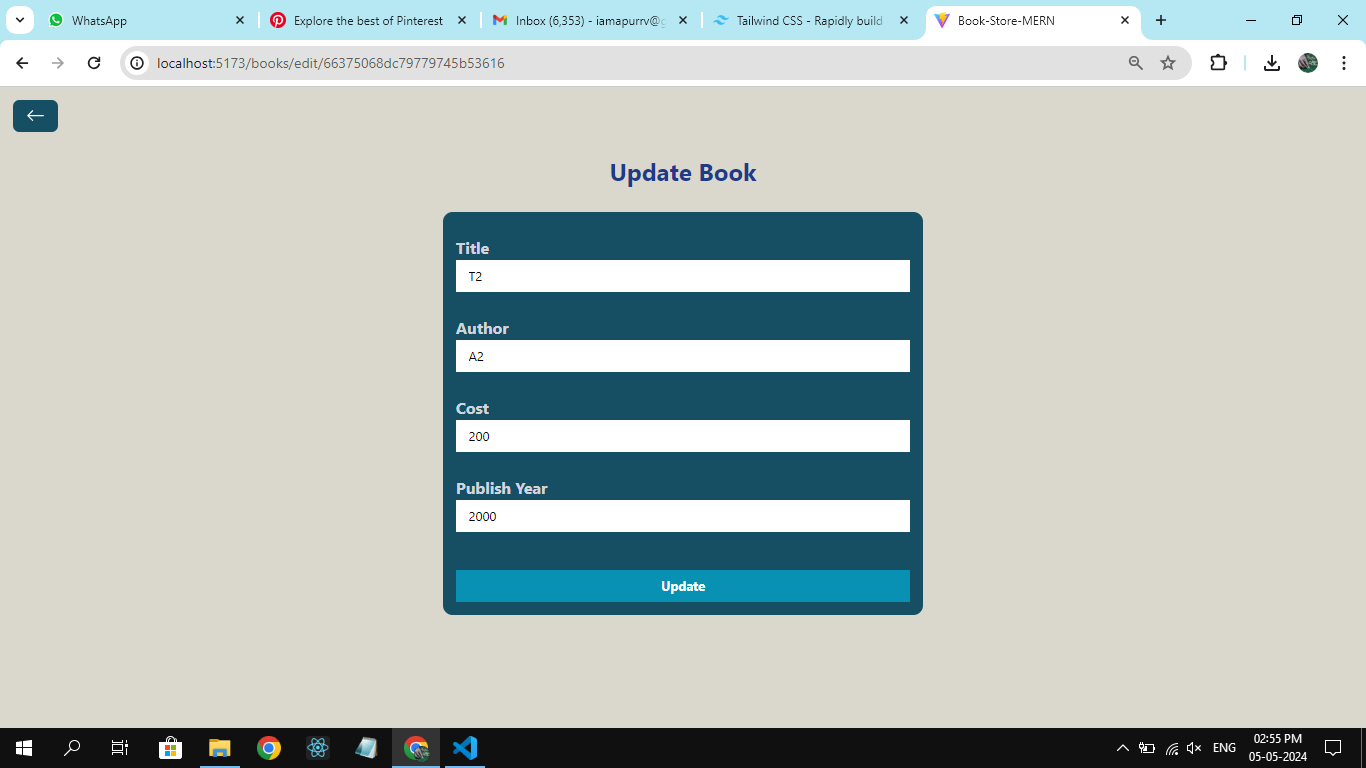
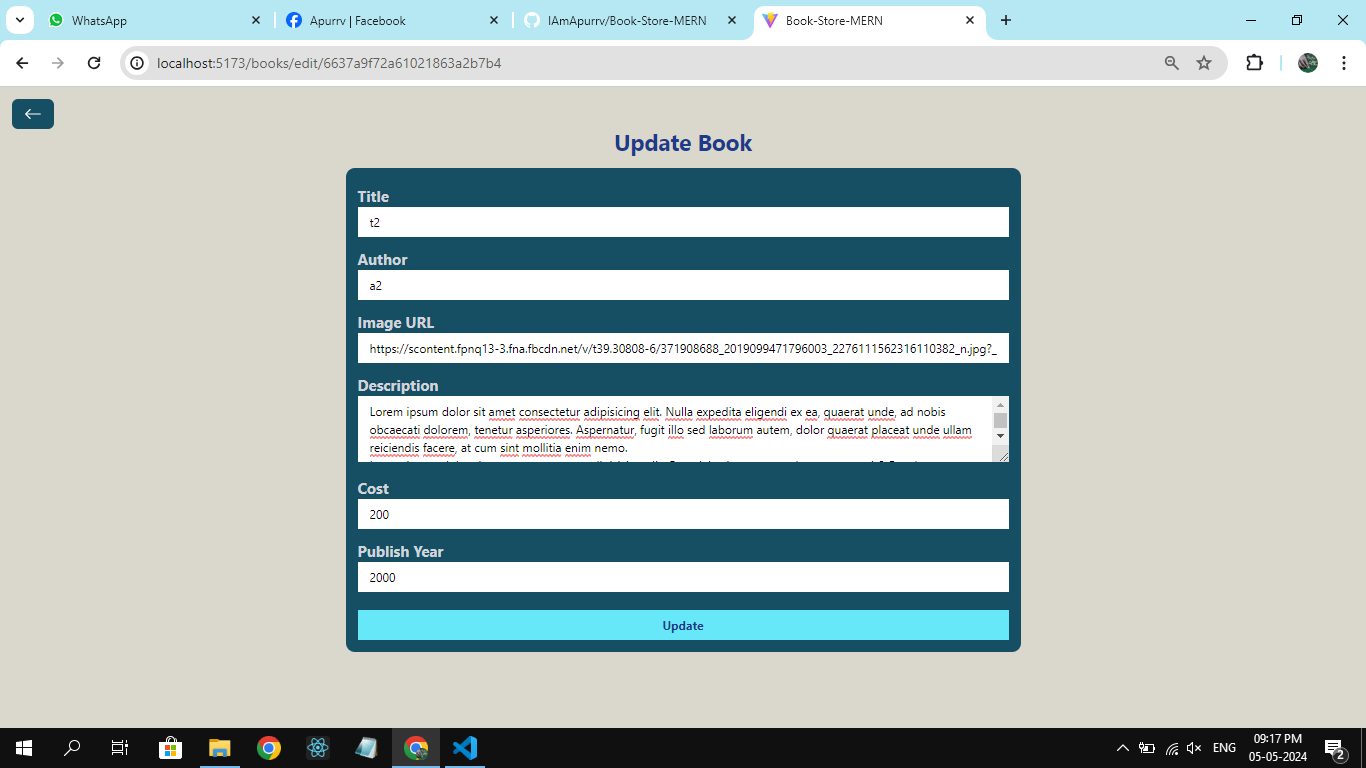
updated

diff --git a/frontend/src/pages/ShowBook.jsx b/frontend/src/pages/ShowBook.jsx
@@ -24,41 +24,76 @@ const ShowBook = () => {
       });
   }, []);
 
+  const formatDate = (dateString) => {
+    const options = {
+      weekday: 'long',
+      year: 'numeric',
+      month: 'long',
+      day: 'numeric',
+      hour: 'numeric',
+      minute: 'numeric',
+      second: 'numeric',
+      hour12: true
+    };
+
+    const dateObject = new Date(dateString);
+    const time = dateObject.toLocaleTimeString(undefined, { hour: 'numeric', minute: 'numeric' });
+    const dayAndDate = dateObject.toLocaleDateString(undefined, { weekday: 'long', month: 'long', day: 'numeric' });
+
+    return `${time}, ${dayAndDate}`;
+  };
+
   return (
     <div className='p-4'>
       <BackButton />
-      <h1 className='text-3xl my-8 font-bold text-blue-900 text-center'>Show Book</h1>
       {loading ? (
         <Spinner />
       ) : (
-        <div className='bg-cyan-900 text-white flex flex-col justify-center rounded-xl w-fit p-4 mx-auto'>
-          <div className='my-4'>
-            <span className='text-xl mr-4 text-gray-300'>Id :</span>
-            <b>{book._id}</b>
+        <div className='my-4 flex'>
+          <div className='w-1/3 h-full flex justify-center rounded-xl bg-cover' style={{ backgroundImage: "url()" }}>
+            <img className='w-3/4 h-2/3 rounded-xl' src={book.imageURL} alt={book.title} />
           </div>
-          <div className='my-4'>
-            <span className='text-xl mr-4 text-gray-300'>Title :</span>
-            <b>{book.title}</b>
-          </div>
-          <div className='my-4'>
-            <span className='text-xl mr-4 text-gray-300'>Author :</span>
-            <b>{book.author}</b>
-          </div>
-          <div className='my-4'>
-            <span className='text-xl mr-4 text-gray-300'>Cost :</span>
-            <b>{book.cost} <span className="inline-block align-middle"><FaRupeeSign /></span></b>
-          </div>
-          <div className='my-4'>
-            <span className='text-xl mr-4 text-gray-300'>Publish Year :</span>
-            <b>{book.publishYear}</b>
-          </div>
-          <div className='my-4'>
-            <span className='text-xl mr-4 text-gray-300'>Create Time :</span>
-            <b>{new Date(book.createdAt).toString()}</b>
-          </div>
-          <div className='my-4'>
-            <span className='text-xl mr-4 text-gray-300'>Last Update Time :</span>
-            <b>{new Date(book.updatedAt).toString()}</b>
+
+          <div className='w-2/3 h-full mx-4 pt-6 p-8 bg-cyan-900 text-white flex flex-col rounded-xl'>
+            <div>
+              <h1 className='text-3xl mt-2 mb-2 font-bold text-center'>{book.title}</h1>
+              <div className='pb-4'>
+                <span className='text-xl mr-4 text-gray-300'>Author :</span>
+                <b>{book.author}</b>
+              </div>
+            </div>
+
+            <div className=''>
+              <b><i>{book.description}</i></b>
+            </div>
+
+            <div className='my-4'>
+              <table>
+                <tr>
+                  <td className='text-xl text-gray-300'>Cost</td>
+                  <td>: &nbsp;&nbsp;&nbsp;<b>{book.cost} ₹</b></td>
+                </tr>
+                <tr>
+                  <td className='text-xl text-gray-300'>Publish Year &nbsp;</td>
+                  <td>: &nbsp;&nbsp;&nbsp;<b>{book.publishYear}</b></td>
+                </tr>
+              </table>
+            </div>
+
+            <div className='mt-8'>
+              <table>
+                <tr>
+                  <td className='text-gray-300'>Book added at &nbsp;</td>
+                  <td>: &nbsp;&nbsp;<b>{formatDate(book.createdAt)}</b></td>
+                </tr>
+                <tr>
+                  <td className='text-gray-300'>Last update at &nbsp;</td>
+                  <td>: &nbsp;&nbsp;<b>{formatDate(book.updatedAt)}</b></td>
+                </tr>
+              </table>
+            </div>
+
+
           </div>
         </div>
       )}

diff --git a/frontend/src/pages/EditBook.jsx b/frontend/src/pages/EditBook.jsx
@@ -8,6 +8,8 @@ import { useSnackbar } from 'notistack';
 const EditBook = () => {
   const [title, setTitle] = useState('');
   const [author, setAuthor] = useState('');
+  const [imageURL, setImageURL] = useState('');
+  const [description, setDescription] = useState('');
   const [cost, setCost] = useState('');
   const [publishYear, setPublishYear] = useState('');
   const [loading, setLoading] = useState(false);
@@ -21,6 +23,8 @@ const EditBook = () => {
       .then((response) => {
         setTitle(response.data.title);
         setAuthor(response.data.author);
+        setImageURL(response.data.imageURL);
+        setDescription(response.data.description);
         setCost(response.data.cost);
         setPublishYear(response.data.publishYear);
         setLoading(false);
@@ -35,6 +39,8 @@ const EditBook = () => {
     const data = {
       title,
       author,
+      imageURL,
+      description,
       cost,
       publishYear
     };
@@ -57,32 +63,43 @@ const EditBook = () => {
   return (
     <div className='p-4'>
       <BackButton />
-      <h1 className='text-3xl my-8 font-bold text-blue-900 text-center'>Update Book</h1>
+      <h1 className='text-3xl mb-4 font-bold text-blue-900 text-center'>Update Book</h1>
       {loading ? <Spinner /> : ''}
 
-      <div className='bg-cyan-900 flex flex-col rounded-xl w-[600px] p-4 mx-auto'>
+      <div className='bg-cyan-900 flex flex-col rounded-xl w-[900px] p-4 mx-auto'>
 
-        <div className='my-4'>
+        <div className='my-2'>
           <label className='text-xl mr-4 text-gray-300 font-bold'>Title</label>
           <input type='text' value={title} onChange={(e) => setTitle(e.target.value)} className='px-4 py-2 w-full' />
         </div>
 
-        <div className='my-4'>
+        <div className='my-2'>
           <label className='text-xl mr-4 text-gray-300 font-bold'>Author</label>
           <input type='text' value={author} onChange={(e) => setAuthor(e.target.value)} className='px-4 py-2 w-full' />
         </div>
 
-        <div className='my-4'>
+        <div className='my-2'>
+          <label className='text-xl mr-4 text-gray-300 font-bold'>Image URL</label>
+          <input type='text' value={imageURL} onChange={(e) => setImageURL(e.target.value)} className='px-4 py-2 w-full' />
+        </div>
+
+        <div className='my-2'>
+          <label className='text-xl mr-4 text-gray-300 font-bold'>Description</label>
+          {/* <input type='text' value={description} onChange={(e) => setDescription(e.target.value)} className='px-4 py-2 w-full' /> */}
+          <textarea value={description} rows={3} onChange={(e) => setDescription(e.target.value)} className='px-4 py-2 w-full' />
+        </div>
+
+        <div className='my-2'>
           <label className='text-xl mr-4 text-gray-300 font-bold'>Cost</label>
           <input type='number' value={cost} onChange={(e) => setCost(e.target.value)} className='px-4 py-2 w-full' />
         </div>
 
-        <div className='my-4'>
+        <div className='my-2'>
           <label className='text-xl mr-4 text-gray-300 font-bold'>Publish Year</label>
           <input type='number' value={publishYear} onChange={(e) => setPublishYear(e.target.value)} className='px-4 py-2 w-full' />
         </div>
 
-        <button className='p-2 bg-cyan-300 mt-8 font-bold text-blue-900 hover:bg-cyan-600 hover:text-white' onClick={handleEditBook}>Update</button>
+        <button className='p-2 bg-cyan-300 mt-4 font-bold text-blue-900 hover:bg-cyan-600 hover:text-white' onClick={handleEditBook}>Update</button>
 
       </div>
 

diff --git a/frontend/src/pages/AddBook.jsx b/frontend/src/pages/AddBook.jsx
@@ -8,6 +8,8 @@ import { useSnackbar } from 'notistack';
 const AddBook = () => {
   const [title, setTitle] = useState('');
   const [author, setAuthor] = useState('');
+  const [imageURL, setImageURL] = useState('');
+  const [description, setDescription] = useState('');
   const [cost, setCost] = useState('');
   const [publishYear, setPublishYear] = useState('');
   const [loading, setLoading] = useState(false);
@@ -18,6 +20,8 @@ const AddBook = () => {
     const data = {
       title,
       author,
+      imageURL,
+      description,
       cost,
       publishYear
     };
@@ -40,32 +44,44 @@ const AddBook = () => {
   return (
     <div className='p-4'>
       <BackButton />
-      <h1 className='text-3xl my-8 font-bold text-blue-900 text-center'>Add Book</h1>
+      <h1 className='text-3xl mb-4 font-bold text-blue-900 text-center'>Add Book</h1>
       {loading ? <Spinner /> : ''}
 
-      <div className='bg-cyan-900 flex flex-col rounded-xl w-[600px] p-4 mx-auto'>
+      <div className='bg-cyan-900 flex flex-col rounded-xl w-[900px] p-4 mx-auto'>
 
-        <div className='my-4'>
+        <div className='my-2'>
           <label className='text-xl mr-4 text-gray-300 font-bold'>Title</label>
           <input type='text' value={title} onChange={(e) => setTitle(e.target.value)} className='px-4 py-2 w-full' />
         </div>
 
-        <div className='my-4'>
+        <div className='my-2'>
           <label className='text-xl mr-4 text-gray-300 font-bold'>Author</label>
           <input type='text' value={author} onChange={(e) => setAuthor(e.target.value)} className='px-4 py-2 w-full' />
         </div>
 
-        <div className='my-4'>
-          <label className='text-xl mr-4 text-gray-300 font-bold'>Cost</label>
-          <input type='number' value={cost} onChange={(e) => setCost(e.target.value)} className='px-4 py-2 w-full' />
+        <div className='my-2'>
+          <label className='text-xl mr-4 text-gray-300 font-bold'>Image URL</label>
+          <input type='text' value={imageURL} onChange={(e) => setImageURL(e.target.value)} className='px-4 py-2 w-full' />
         </div>
 
-        <div className='my-4'>
+        <div className='my-2'>
+          <label className='text-xl mr-4 text-gray-300 font-bold'>Description</label>
+          {/* <input type='text' value={description} onChange={(e) => setDescription(e.target.value)} className='px-4 py-2 w-full' /> */}
+          <textarea value={description} rows={3} onChange={(e) => setDescription(e.target.value)} className='px-4 py-2 w-full' />
+        </div>
+
+        <div className='my-2'>
+          <label className='text-xl mr-4 text-gray-300 font-bold'>Cost</label>
+          <input type='number' value={cost} onChange={(e) => setCost(e.target.value)} className='px-4 py-2 w-full' />
+          
+        </div>
+
+        <div className='my-2'>
           <label className='text-xl mr-4 text-gray-300 font-bold'>Publish Year</label>
           <input type='number' value={publishYear} onChange={(e) => setPublishYear(e.target.value)} className='px-4 py-2 w-full' />
         </div>
 
-        <button className='p-2 bg-cyan-300 mt-8 font-bold text-blue-900 hover:bg-cyan-600 hover:text-white' onClick={handleSaveBook}>Add</button>
+        <button className='p-2 bg-cyan-300 mt-4 font-bold text-blue-900 hover:bg-cyan-600 hover:text-white' onClick={handleSaveBook}>Add</button>
 
       </div>
 

diff --git a/frontend/src/components/home/BookModal.jsx b/frontend/src/components/home/BookModal.jsx
@@ -3,9 +3,9 @@ import { FaBookOpen, FaUser, FaRupeeSign } from "react-icons/fa";
 
 const BookModal = ({ book, onClose }) => {
   return (
-    <div className='fixed bg-black text-black bg-opacity-60 top-0 left-0 right-0 bottom-0 z-50 flex justify-center items-center' onClick={onClose} >
+    <div className='fixed bg-black text-black bg-opacity-50 top-0 left-0 right-0 bottom-0 z-50 flex justify-center items-center' onClick={onClose} >
 
-      <div onClick={(event) => event.stopPropagation()} className='max-w-full max-h-full bg-white rounded-xl p-4 flex flex-col relative' >
+      <div onClick={(event) => event.stopPropagation()} className='w-[500px] max-w-full max-h-full bg-white rounded-xl p-4 flex flex-col relative' >
         <AiOutlineClose className='absolute right-6 top-6 text-3xl text-red-600 cursor-pointer' onClick={onClose} />
         {/* <h4 className='my-2 text-gray-500'>{book._id}</h4> */}
         <b className='w-fit px-4 py-1 bg-red-600 rounded-lg mb-4 text-white'>{book.publishYear} </b>
@@ -18,9 +18,12 @@ const BookModal = ({ book, onClose }) => {
           <FaUser className='text-purple-600 text-2xl' />
           <b className='my-1'>{book.author}</b>
         </div>
-        <div className='flex justify-start items-center gap-x-2 mb-4'>
+        <div className='flex justify-start items-center gap-x-2 mb-2'>
           <FaRupeeSign className='text-purple-600 text-2xl' />
           <b className='my-1'>{book.cost} ₹</b>
+        </div>
+        <div className='flex justify-start items-center gap-x-2 mb-4 text-center'>
+          <b className=''>{book.description}</b>
         </div>
       </div>
 

diff --git a/backend/routes/booksRoute.js b/backend/routes/booksRoute.js
@@ -6,14 +6,16 @@ const router = express.Router();
 // Route for Save a new Book
 router.post('/', async (request, response) => {
   try {
-    if (!request.body.title || !request.body.author || !request.body.publishYear || !request.body.cost) {
+    if (!request.body.title || !request.body.author || !request.body.imageURL || !request.body.description || !request.body.publishYear || !request.body.cost) {
       return response.status(400).send({
-        message: 'Send all required fields: title, author, publishYear, cost',
+        message: 'Send all required fields: title, author, imageURL, description, cost, publishYear',
       });
     }
     const newBook = {
       title: request.body.title,
       author: request.body.author,
+      imageURL: request.body.imageURL,
+      description: request.body.description,
       publishYear: request.body.publishYear,
       cost: request.body.cost
     };
@@ -56,9 +58,9 @@ router.get('/:id', async (request, response) => {
 // Route for Update a Book
 router.put('/:id', async (request, response) => {
   try {
-    if (!request.body.title || !request.body.author || !request.body.publishYear || !request.body.cost) {
+    if (!request.body.title || !request.body.author || !request.body.imageURL || !request.body.description || !request.body.publishYear || !request.body.cost) {
       return response.status(400).send({
-        message: 'Send all required fields: title, author, publishYear, cost',
+        message: 'Send all required fields: title, author, imageURL, description, cost, publishYear',
       });
     }
     const { id } = request.params;

diff --git a/frontend/src/pages/Home.jsx b/frontend/src/pages/Home.jsx
@@ -45,17 +45,15 @@ const Home = () => {
             <IoMdAddCircle className='text-3xl ml-2' />
           </div>
         </Link> */}
-        <Link to='/books/create' className='px-1 py-1 mr-2 rounded-lg hover:bg-cyan-900 hover:text-white'>
-          <div className="flex items-center text-center rounded-lg py-2">
+        <Link to='/books/create' className='px-1 py-2 mr-2 rounded-lg hover:bg-cyan-900 hover:text-white flex items-center text-center rounded-lg'>
             <div className="w-3/4">
               <h1 className="text-lg font-bold">
                 Add a new Book
               </h1>
             </div>
-            <div className="w-1/4 flex">
+            <div className="w-1/4">
               <IoMdAddCircle className='text-3xl' />
             </div>
-          </div>
         </Link>
 
 

diff --git a/backend/models/bookModel.js b/backend/models/bookModel.js
@@ -10,11 +10,19 @@ const bookSchema = mongoose.Schema(
       type: String,
       required: true,
     },
-    publishYear: {
-      type: Number,
+    imageURL: {
+      type: String,
+      required: true,
+    },
+    description: {
+      type: String,
       required: true,
     },
     cost: {
+      type: Number,
+      required: true,
+    },
+    publishYear: {
       type: Number,
       required: true,
     },
@@ -26,10 +34,11 @@ const bookSchema = mongoose.Schema(
 
 export const Book = mongoose.model('Book', bookSchema);
 
-
 // {
 //   "title": "t1",
 //   "author": "a1",
-//   "publishYear": "2000",
-//   "cost": "100"
+//   "imageURL": "image.png",
+//   "description": "this is description",
+//   "cost": "100",
+//   "publishYear": "2000"
 // }
